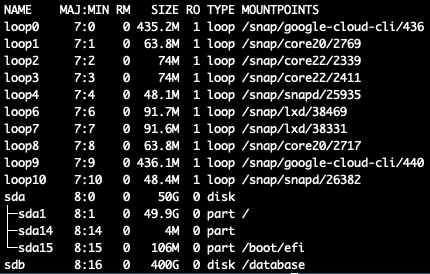
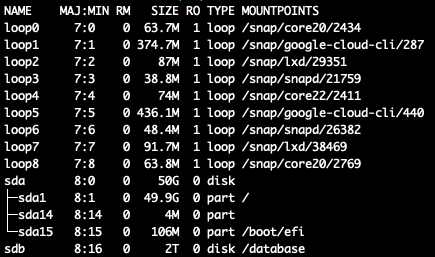
feat: 調整範例圖片 & 新增補充說明

diff --git a/content/journals/gcp/gce-increased-disk-capacity/index.md b/content/journals/gcp/gce-increased-disk-capacity/index.md
@@ -40,9 +40,13 @@ gcloud compute disks resize ${DISK_NAME} \
 - `/dev/sda`：這是系統磁碟，通常是用來安裝作業系統的磁碟(開機磁碟)。
 - `/dev/sdb`：這是資料磁碟，通常是用來存放資料的磁碟(非開機磁碟)。
 
-可以看到 `/dev/sdb` 在 VM 中掛載的目錄路徑是 `/database`，而且目前的磁碟容量是 400GB。
+可以看到 `/dev/sdb` 在 VM 中掛載的目錄路徑是 `/database`，而且目前的磁碟容量是 512GB。但是因為已經調整過磁碟容量了，使用 `lsblk` 指令可以看到磁碟的大小已經變成 2TB 了。
 
 重新讀取磁碟新的分區，擴增磁碟大小以前。需要先確認分割區類型，可以使用 `sudo parted -l` 指令來查看磁碟的分割區類型。
+
+```shell
+sudo parted -l
+```
 
 ![parted的輸出結果](img/journals/gcp/gce-increased-disk-capacity/parted_outputs.png "parted的輸出結果")
 
@@ -57,6 +61,10 @@ sudo xfs_growfs /database
 ```bash
 sudo resize2fs /dev/sdb1
 ```
+
+當執行完擴增磁碟大小的指令以後，再次使用 `df` 指令來確認磁碟的容量已經增加了。
+
+![df的輸出結果](img/journals/gcp/gce-increased-disk-capacity/df_outputs_after_resize.png "df的輸出結果")
 
 ## 參考文獻📚
 
